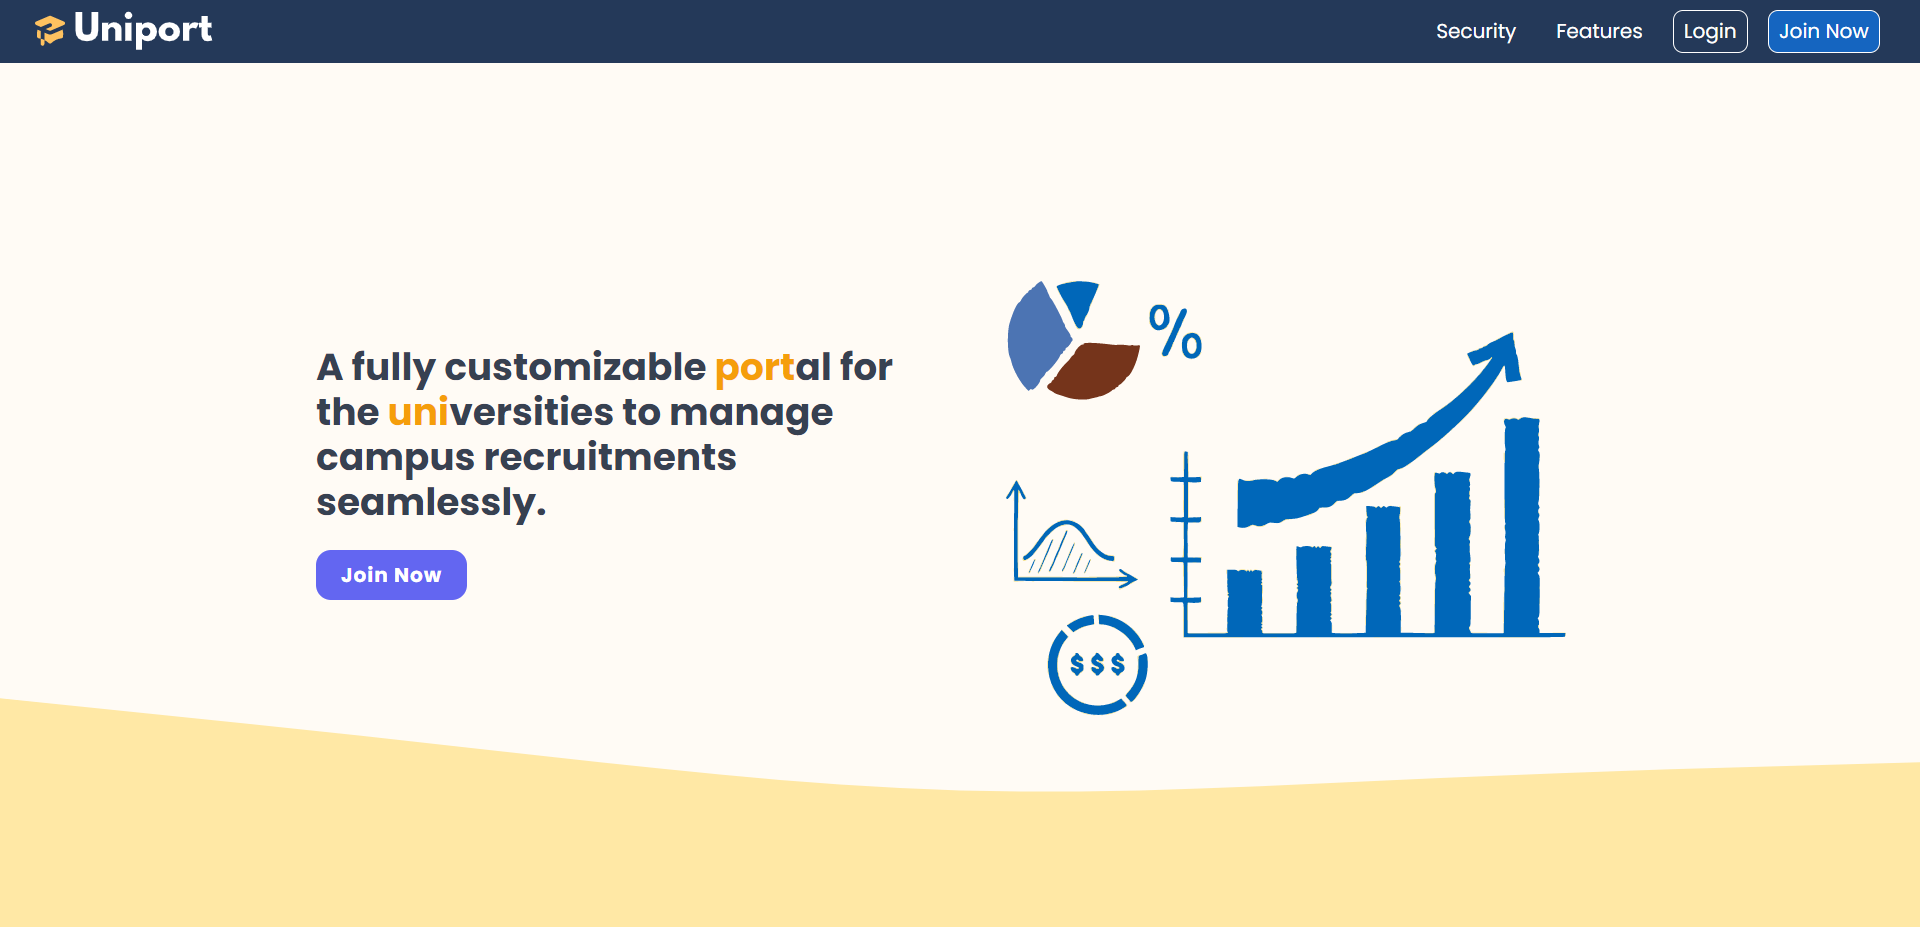
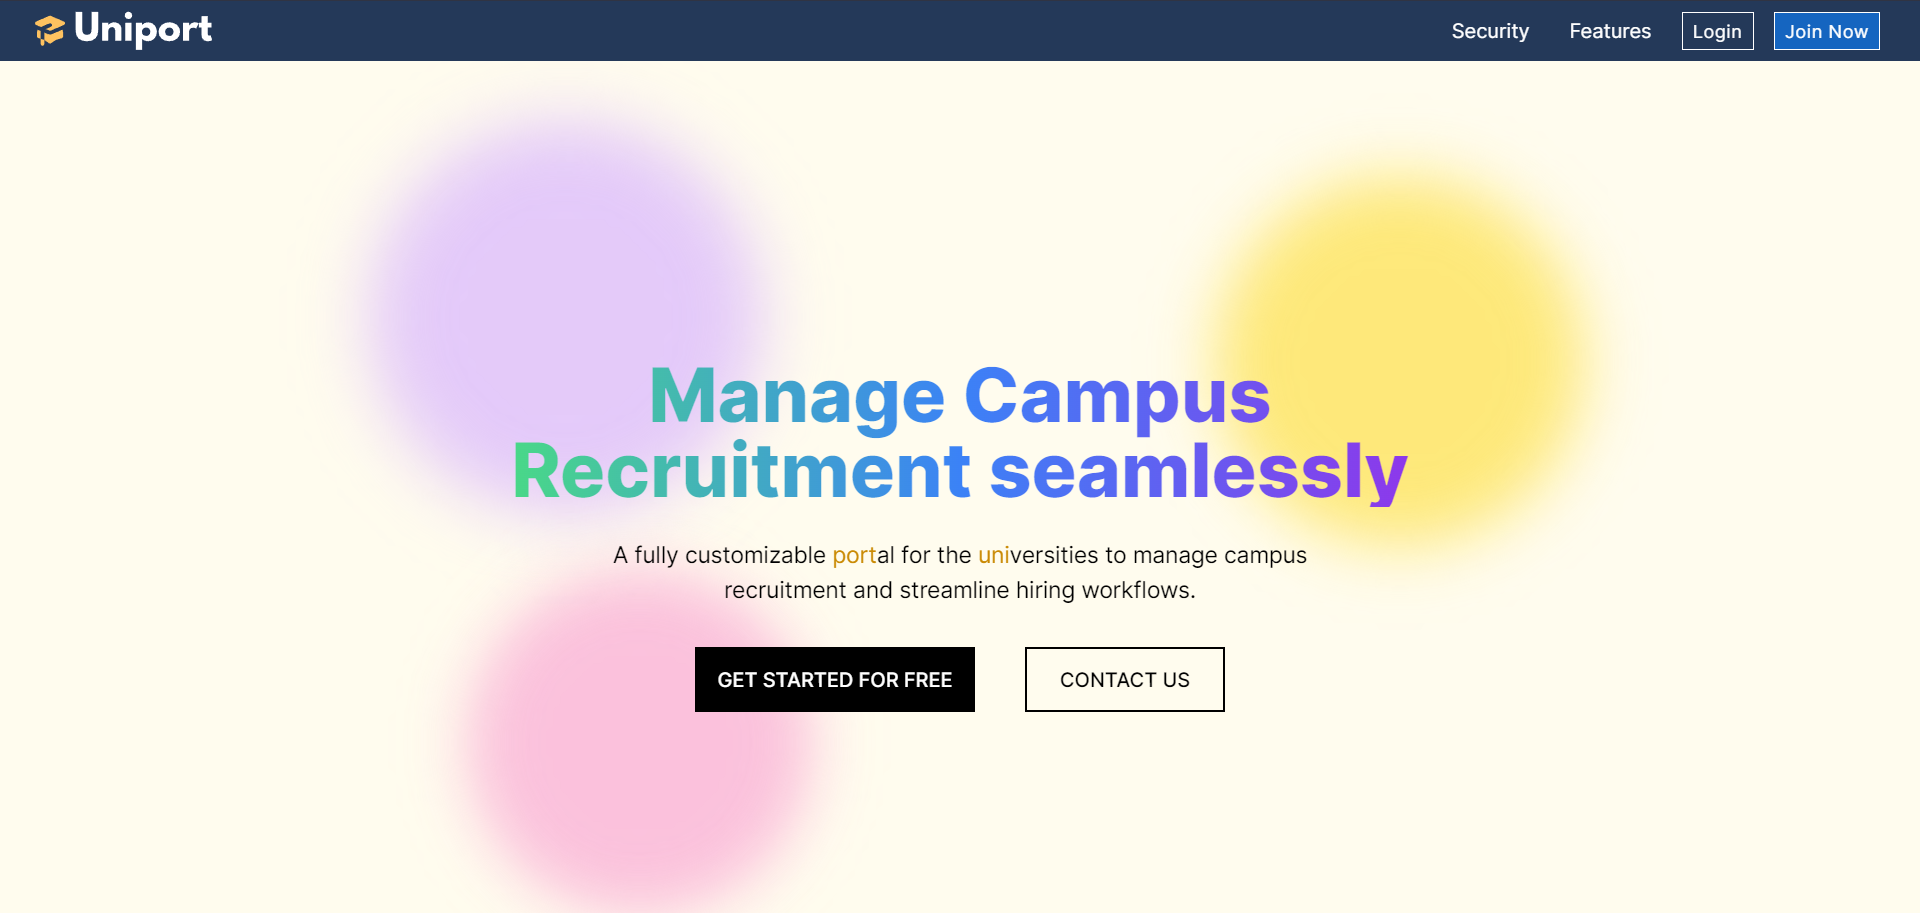
docs: update README and update landing page UI

diff --git a/packages/frontend/src/components/views/Landing.tsx b/packages/frontend/src/components/views/Landing.tsx
@@ -1,9 +1,7 @@
 import HeadMeta from "../HeadMeta/HeadMeta";
 import NoAuthNavbar from "../NonAuthNavbar/NonAuthNavbar";
-import Image from "next/image";
 import Link from "next/link";
 import { REGISTER_ADMIN } from "../../config/routes-config";
-import { ActionButton } from "../ui/buttons/ActionButton";
 
 const Landing = () => {
 	return (
@@ -12,30 +10,27 @@ const Landing = () => {
 			<NoAuthNavbar />
 			<WavyDesignContainer>
 				<div className="ui-landing max-w-6xl">
-					<div className="flex flex-col md:grid md:grid-cols-2 mx-auto gap-7">
-						<div>
-							<div className="text-4xl md:text-5xl pb-4 font-heading font-black">
+					<div className="max-w-screen-xl px-4 py-24 mx-auto sm:px-6 lg:px-8 lg:flex lg:items-center">
+						<div className="max-w-3xl mx-auto text-center">
+							<div className="text-3xl font-extrabold text-transparent sm:text-6xl bg-clip-text bg-gradient-to-r from-green-400 via-blue-500 to-purple-600">
 								Manage Campus Recruitment seamlessly
 							</div>
-							<div className="text-lg  pb-6">
+							<div className="max-w-xl mx-auto mt-6 text-lg">
 								A fully customizable{" "}
 								<span className="text-yellow-600">port</span>al for the{" "}
 								<span className="text-yellow-600">uni</span>versities to manage
-								campus recruitment seamlessly.
+								campus recruitment and streamline hiring workflows.
 							</div>
-							<ActionButton>
-								<Link href={REGISTER_ADMIN}>Get started for free</Link>
-							</ActionButton>
+
+							<div className="mt-8 sm:justify-center sm:flex gap-10">
+								<div className="block uppercase px-2 py-3 font-medium bg-black  border-black  border-2 hover:bg-gray-700 w-56 text-white">
+									<Link href={REGISTER_ADMIN}>Get started for free</Link>
+								</div>
+								<div className="block uppercase px-2 py-3 font-medium border-black border-2 hover:bg-gray-700 hover:text-white w-40 text-black">
+									<Link href='#'>Contact Us</Link>
+								</div>
+							</div>
 						</div>
-						<div className="w-5/6">
-							<Image
-								src={require("../../assets/images/landing.svg")}
-								layout="responsive"
-								height="210"
-								width="280"
-							/>
-						</div>
-						{/* <div className='rounded-full py-2 px-5 uppercase text-base font-bold tracking-wider cursor-pointer bg-green-500 hover:bg-green-700   text-white'>Join with Invite</div> */}
 					</div>
 				</div>
 			</WavyDesignContainer>
@@ -59,3 +54,7 @@ const WavyDesignContainer = ({ children }) => {
 		</>
 	);
 };
+
+
+
+

diff --git a/packages/frontend/src/styles/global.css b/packages/frontend/src/styles/global.css
@@ -1,9 +1,4 @@
-@import url("https://fonts.googleapis.com/css2?family=Noto+Sans+JP:wght@100;300;400;500;700;900&display=swap");
-@import url("https://fonts.googleapis.com/css2?family=Poppins:ital,wght@0,100;0,200;0,300;0,400;0,500;0,600;0,700;0,800;0,900;1,100;1,200;1,300;1,400;1,500;1,600;1,700;1,800;1,900&display=swap");
 @import url("https://fonts.googleapis.com/css2?family=Inter:wght@100;200;300;400;500;600;700;800;900&display=swap");
-@import url("https://fonts.googleapis.com/css2?family=Spectral:wght@600&display=swap");
-@import url("https://fonts.googleapis.com/css2?family=Playfair+Display:wght@600;700;900&family=Spectral:wght@600&display=swap");
-@import url("https://fonts.googleapis.com/css2?family=Arapey&display=swap");
 
 @tailwind base;
 @tailwind components;
@@ -74,11 +69,11 @@
 }
 
 .heading-text {
-	@apply text-4xl font-black font-heading mb-4;
+	@apply text-3xl font-bold font-heading mb-4;
 }
 
 .subheading-text {
-	@apply text-2xl font-black font-heading mb-4;
+	@apply text-xl font-bold font-heading mb-4;
 }
 
 .form-container:before {

diff --git a/packages/frontend/tailwind.config.js b/packages/frontend/tailwind.config.js
@@ -34,7 +34,7 @@ module.exports = {
 				'bg-color': "#fffcee"
 			},
 			fontFamily: {
-				heading: ['Arapey'],
+				heading: ['Inter'],
 				body: ['Inter']
 			},
 			fontSize: {

diff --git a/README.md b/README.md
@@ -40,11 +40,10 @@ Uniport is built using the following technologies. All of them are written in ty
 1. Next.js
 2. GraphQL
 3. Node.js
-4. Apache Cassandra
+4. Mongo DB
 
 ## Modules
 The code sample contains the following four modules:
-* [Database](./database/): Contains the Apache-Cassandra data model
 * [Frontend](./packages/frontend/): Contains the NextJS frontend application
 * [Backend](./packages/backend/):  Contains an express apollo GraphQL server
 * [Shared](./packages/common/):  Contains the common validators, LEGOs definitions etc which are used by both frontend and backend modules
@@ -53,15 +52,4 @@ The code sample contains the following four modules:
 
 ![](./docs/workflow.png)
 
-## Currently supported LEGOs
-Uniport is a modular application where the admin has the power to customize the platform to their needs. For now, the application supports the following types(refer to the image below). They cover most of the cases and can be modified by the admin based on their needs. Each of the LEGO is capable of handling multiple cases. For example: **Single Select** can be used for **Gender**, **Country**, **any single correct objective question**.
-
-> 💡 If you have some cases that cannot be modelled using the existing LEGOs, please do share them with us by [creating an issue](https://github.com/subhamX/uniport/issues). We shall add that soon.
-
-
-> Note that LEGOs like **Education**, **Work Experience** have multiple elements nested inside them (like percent_score, school_name, start_date etc...). And the data corresponding to these LEGOs isn't stored using the unscalable **entity attribute value model**. Instead, it is **modelled** in an intelligent way using the **Apache Cassandra collections and UDTs**. It's great, isn't it? ⚡⚡
-
-![](./docs/legos.PNG)
-
-
-> 🪐 Some core modules are not yet integrated. We shall deploy the project once they are complete.
+> 🪐 Some core modules are not yet integrated to frontend. We shall deploy the project once they are complete.
